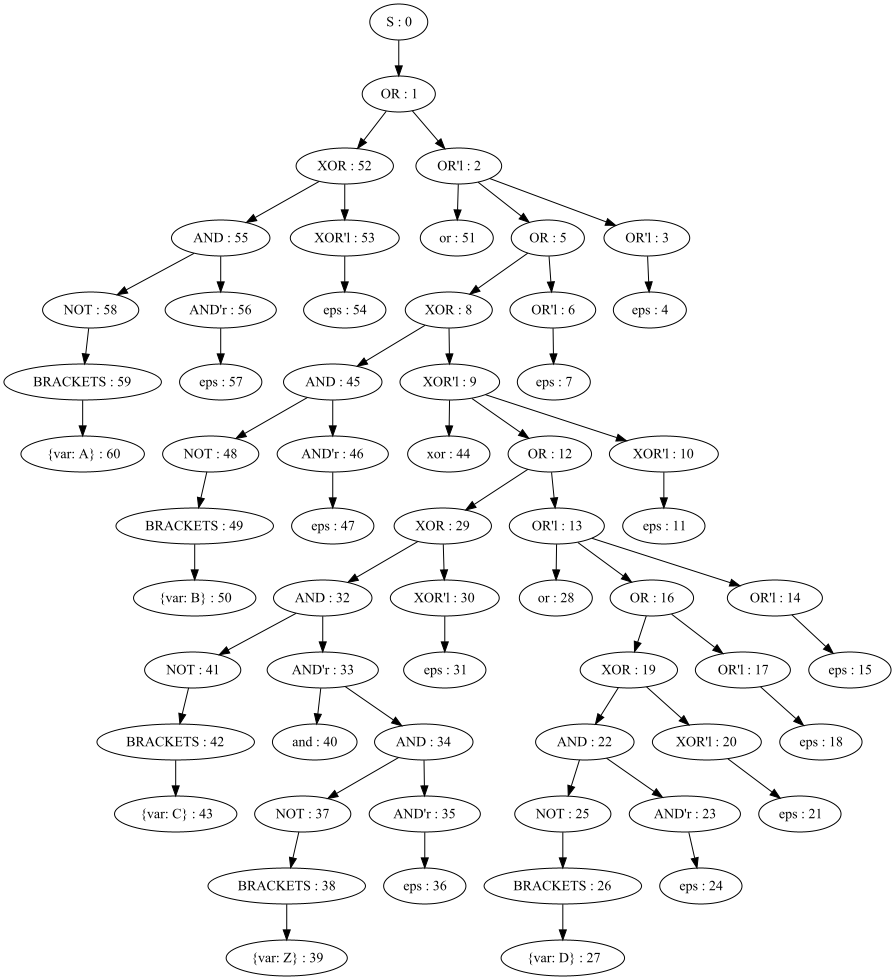
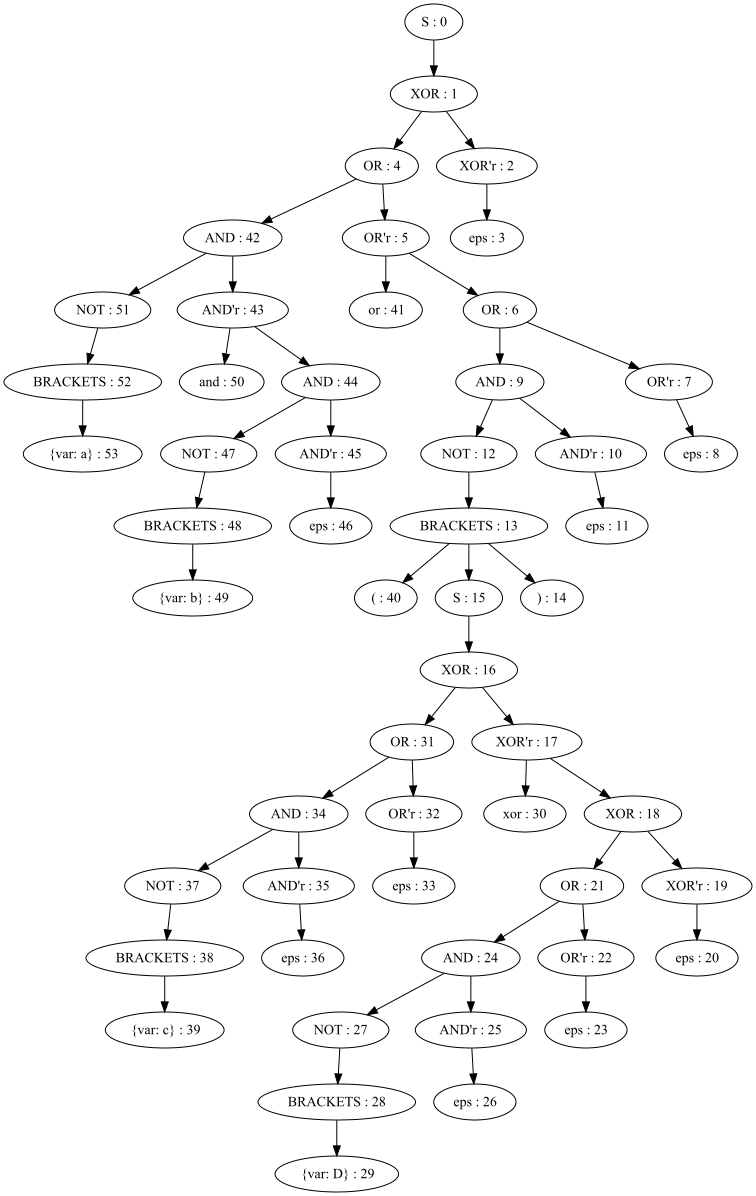
Modified

Changed region(s): [[0.0, 0.0, 1.0, 1.0], [0.8214, 0.3061, 0.9735, 0.398]]

diff --git a/Lab1/src/test/java/Main.java b/Lab1/src/test/java/Main.java
@@ -8,7 +8,7 @@ public class Main {
         ExpressionParser expressionParser = new ExpressionParser();
         ExpressionParser.Node node = null;
         try {
-            node = expressionParser.parse("((A or B) xor (C and Z)) or D");
+            node = expressionParser.parse("a and b or (c xor D)");
         } catch (TokenizerParseException | ExpressionParserException e) {
             e.printStackTrace();
         }
